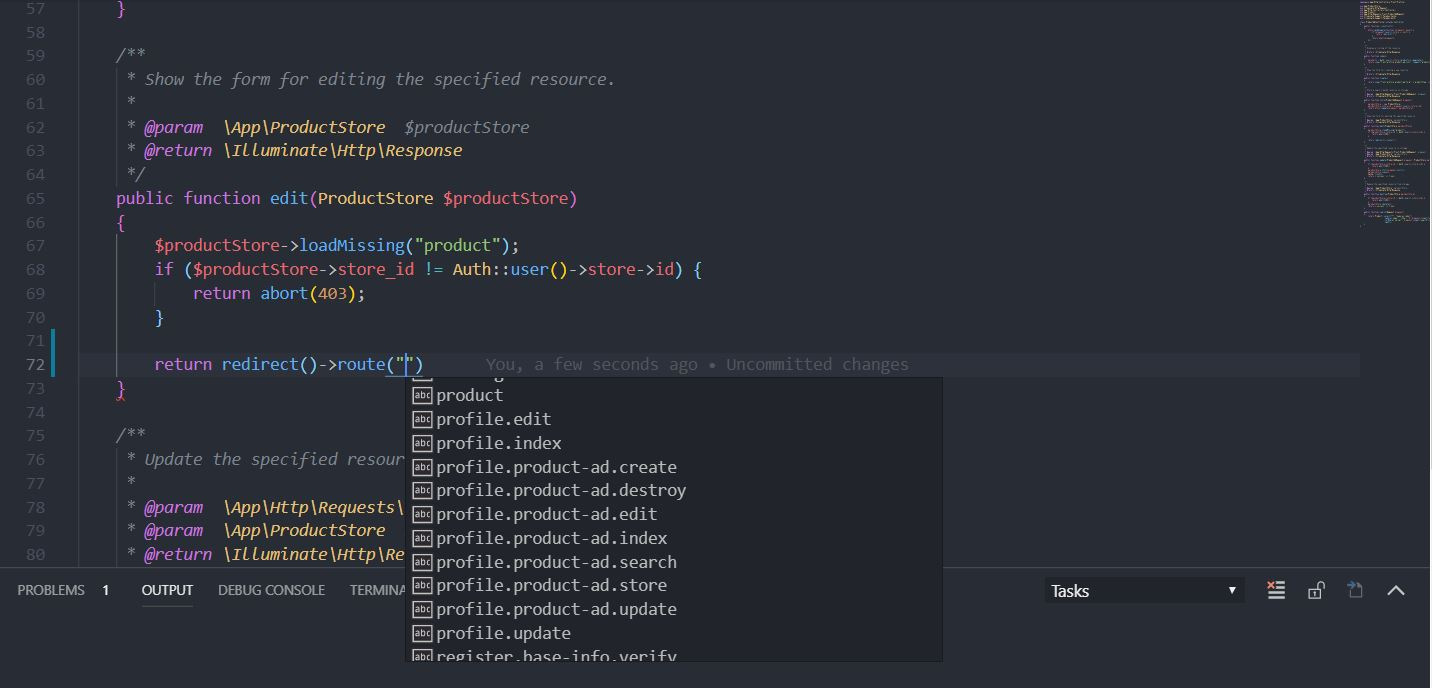
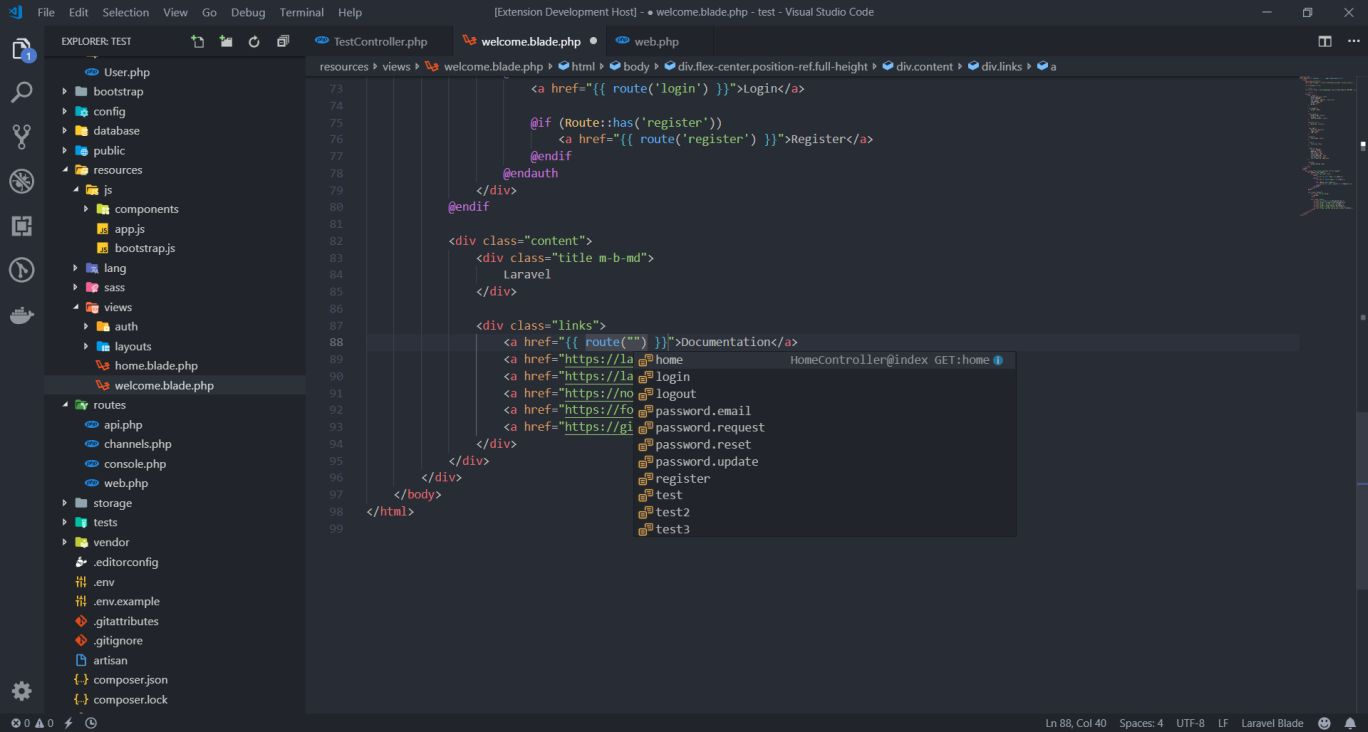
Views intellisense ready.

diff --git a/src/extension.ts b/src/extension.ts
@@ -1,9 +1,12 @@
 'use strict';
 
 import * as vscode from 'vscode';
+import * as fs from "fs";
 import * as cp from 'child_process';
 
+var projectRoot = "";
 var routes: Array<any> = [];
+var views: Array<string> = [];
 
 function exec(command: string, options: cp.ExecOptions): Promise<{ stdout: string; stderr: string }> {
 	return new Promise<{ stdout: string; stderr: string }>((resolve, reject) => {
@@ -16,10 +19,23 @@ function exec(command: string, options: cp.ExecOptions): Promise<{ stdout: strin
 	});
 }
 
+/**
+ * Create full path from project file name
+ *
+ * @param path
+ * @param String
+ */
+function projectPath(path:string) {
+	if (path[0] != '/') {
+		path = '/' + path;
+	}
+	return projectRoot+path;
+}
+
 async function loadRoutes() {
 	if (vscode.workspace.workspaceFolders instanceof Array && vscode.workspace.workspaceFolders.length > 0) {
 		try {
-			let {stdout} = await exec("php "+vscode.workspace.workspaceFolders[0].uri.fsPath+"/artisan route:list", {});
+			let {stdout} = await exec("php "+projectPath("artisan")+" route:list", {});
 			var lines = stdout.split("\n").filter(function (line) {
 				return line.length > 0 && line[0] === '|';
 			}).splice(1);
@@ -42,18 +58,28 @@ async function loadRoutes() {
 	}
 }
 
-export function activate(context: vscode.ExtensionContext) {
-	loadRoutes();
+function loadViews(root?: string) {
+	if (root === undefined) {
+		views = [];
+		root = "/";
+	}
+	if (fs.existsSync(projectPath("resources/views")) && fs.lstatSync(projectPath("resources/views")).isDirectory()) {
+		fs.readdirSync(projectPath("resources/views"+root)).forEach(function (file) {
+			if (fs.lstatSync(projectPath("resources/views"+root+file)).isDirectory()) {
+				loadViews(root + file + "/");
+			} else {
+				views.push((root != undefined && root.length > 1 ? root.substr(1).replace(/\/|\\/g, ".") : "") + file.replace(".blade.php", ""));
+			}
+		});
+	}
+}
 
-	vscode.workspace.onDidSaveTextDocument(function(event: vscode.TextDocument) {
-		if (event.fileName.includes("route") && event.fileName.includes("php")) {
-			loadRoutes();
-		}
-	});
-
-
-	const routeAutocompleteProvider = vscode.languages.registerCompletionItemProvider(
-		["php", "blade"],
+function routeAutocompleteProvider() {
+	return vscode.languages.registerCompletionItemProvider(
+		[
+			{ scheme: 'file', language: 'php' },
+			{ scheme: 'file', language: 'blade' }
+		],
 		{
 			provideCompletionItems(document: vscode.TextDocument, position: vscode.Position) {
 
@@ -75,7 +101,7 @@ export function activate(context: vscode.ExtensionContext) {
 								while (currentRouteParameters != null) {
 									if (currentRouteParameters != null && currentRouteParameters[1].length > 0) {
 										var compeleteItem = new vscode.CompletionItem(currentRouteParameters[1], vscode.CompletionItemKind.Variable);
-										compeleteItem.detail = currentRouteParameters[1];
+										compeleteItem.detail = currentRouteParameters[2] == "?" ? "Optional" : "Required";
 										out.push(compeleteItem);
 									}
 									currentRouteParameters = routeParamRegex.exec(routes[i].uri);
@@ -100,6 +126,59 @@ export function activate(context: vscode.ExtensionContext) {
 		'"',
 		"'"
 	);
+}
 
-	context.subscriptions.push(routeAutocompleteProvider);
+
+function viewAutocompleteProvider() {
+	return vscode.languages.registerCompletionItemProvider(
+		[
+			{ scheme: 'file', language: 'php' },
+			{ scheme: 'file', language: 'blade' }
+		],
+		{
+			provideCompletionItems(document: vscode.TextDocument, position: vscode.Position) {
+
+				let linePrefix = document.lineAt(position).text.substr(0, position.character).toLowerCase().trim();
+				if (!(
+					linePrefix.includes("view") ||
+					linePrefix.includes("@extends") ||
+					linePrefix.includes("@component") ||
+					linePrefix.includes("@include") ||
+					linePrefix.includes("@each")
+				)) {
+					return undefined;
+				}
+
+				var out:Array<vscode.CompletionItem> = [];
+
+				for (var i in views) {
+					out.push(new vscode.CompletionItem(views[i], vscode.CompletionItemKind.File));
+				}
+				return out;
+			}
+		},
+		'"',
+		"'"
+	);
+}
+
+export function activate(context: vscode.ExtensionContext) {
+	if (vscode.workspace.workspaceFolders instanceof Array && vscode.workspace.workspaceFolders.length > 0) {
+		projectRoot = vscode.workspace.workspaceFolders[0].uri.fsPath;
+		if (fs.existsSync(projectPath("artisan"))) {
+			loadRoutes();
+			loadViews();
+
+			vscode.workspace.onDidSaveTextDocument(function(event: vscode.TextDocument) {
+				if (event.fileName.includes("route") && event.fileName.includes("php")) {
+					loadRoutes();
+				}
+				if (event.fileName.includes("views") && event.fileName.includes("php")) {
+					loadViews();
+				}
+			});
+
+			context.subscriptions.push(routeAutocompleteProvider(), viewAutocompleteProvider());
+		}
+	}
 }

diff --git a/README.md b/README.md
@@ -1,8 +1,15 @@
 # Laravel Extra Intellisense
 
-This extension adds [laravel](https://laravel.com/) routes autocomplete to [VSCode](https://code.visualstudio.com/).
+This extension adds [laravel](https://laravel.com/) routes and views autocomplete to [VSCode](https://code.visualstudio.com/).
 
 ![Screen Shot](/images/screenshot.jpg)
+*Route names*
+
+![Screen Shot](/images/screenshot2.jpg)
+*Route parameters*
+
+![Screen Shot](/images/screenshot3.jpg)
+*Views*
 
 ## Release Notes
 
@@ -11,3 +18,15 @@ Add route autocomplete.
 
 ### 0.0.2
 Blade bug fix.
+
+### 0.0.3
+View functions autocompelete added.
+
+## Recommended extensions
+* [PHP Intelephense](https://marketplace.visualstudio.com/items?itemName=bmewburn.vscode-intelephense-client)
+* [PHPCS](https://marketplace.visualstudio.com/items?itemName=ikappas.phpcs)
+* [PHP DocBlocker](https://marketplace.visualstudio.com/items?itemName=neilbrayfield.php-docblocker)
+* [PHP formatter](https://marketplace.visualstudio.com/items?itemName=kokororin.vscode-phpfmt)
+* [Laravel Blade Snippets](https://marketplace.visualstudio.com/items?itemName=onecentlin.laravel-blade)
+* [Laravel goto view](https://marketplace.visualstudio.com/items?itemName=codingyu.laravel-goto-view)
+* [Laravel goto controller](https://marketplace.visualstudio.com/items?itemName=stef-k.laravel-goto-controller)
